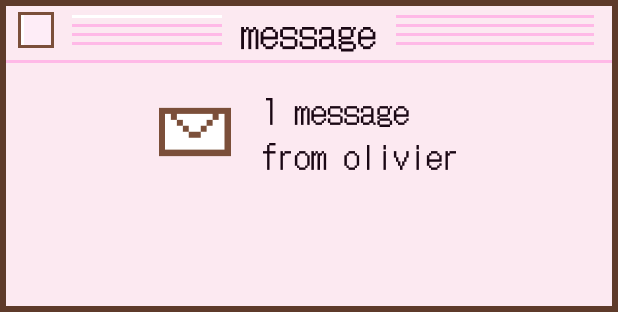
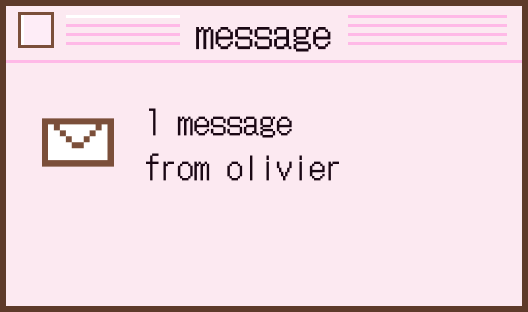
Narrow the dialog, left-align its message, scale OK with it; drop About deco row

Changed region(s): [[0.0606, 0.3173, 0.7273, 0.5769], [0.3333, 0.0288, 0.6667, 0.1731], [0.0, 0.0288, 0.1212, 0.1731]]

diff --git a/index.html b/index.html
@@ -67,7 +67,7 @@
     <div class="picto-main">
       <div class="tools-wrap"><img class="tools" src="./assets/v2/tools.png" alt=""><button type="button" class="t-up" aria-label="Scroll up"></button><button type="button" class="t-down" aria-label="Scroll down"></button></div>
       <div class="memo memo-about">
-        <div class="memo-row memo-top"><span class="tag">about me ♡</span><span class="deco">★ &nbsp;&nbsp; ☆ &nbsp;&nbsp; ♥ &nbsp; ★ &nbsp;&nbsp; ☆ &nbsp;&nbsp; ★</span></div>
+        <div class="memo-row memo-top"><span class="tag">about me ♡</span></div>
         <div class="memo-text">
           <p>My research studies the quality of human conversation — and the points where it breaks down — through speech.</p>
           <p>I model dialogue from two directions at once: what is said, through language and LLM-based analysis, and how it is said, through prosody and timing. Each direction captures what the other misses, and reading them together surfaces what neither shows alone: depth and responsiveness in facilitated group dialogue, early traces of cognitive and affective decline in how a person talks, and the shifts in trust and memory that follow when a voice turns out to be synthetic.</p>

diff --git a/site.css b/site.css
@@ -498,3 +498,14 @@ button.box.close:hover, .xbox:hover, .a-close:hover { filter: brightness(.95) sa
   #guestbook .kb-wrap { width: 460px; align-self: center; margin-left: 0; }
   #guestbook .picto { width: 600px; }
 }
+
+/* ─── round 13: narrower dialog, OK scales with it ─── */
+.alert { width: 176px; container-type: inline-size; }
+.stage-home .alert { left: 730px; }
+.a-close { left: 2.8%; top: 2.9%; width: 8%; height: 14%; }
+.a-ok, .a-ok:hover { left: 50%; right: auto; top: auto; bottom: 8.7%; transform: translateX(-50%); width: 22.7%; height: 17.3%;
+  font-size: 5.7cqw; border-width: 1.2cqw; border-radius: 3.4cqw; box-shadow: inset 0 0 0 .85cqw var(--panel), inset 0 0 0 1.4cqw var(--choc); }
+@media (max-width: 720px) {
+  .stage-home .alert { width: 150px; }
+  .a-ok, .a-ok:hover { left: 50%; right: auto; bottom: 8.7%; width: 22.7%; height: 17.3%; font-size: 5.7cqw; border-width: 1.2cqw; }
+}
